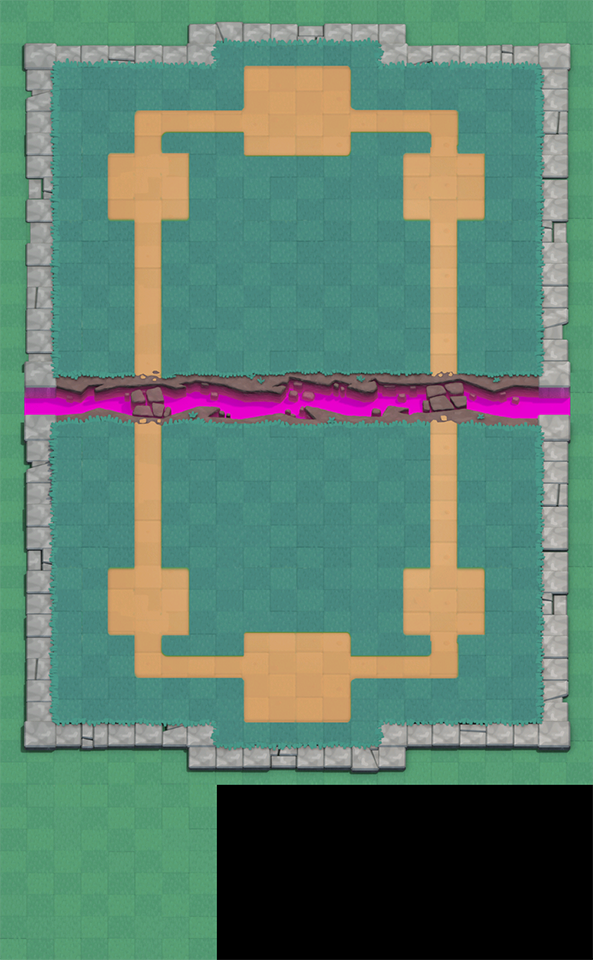
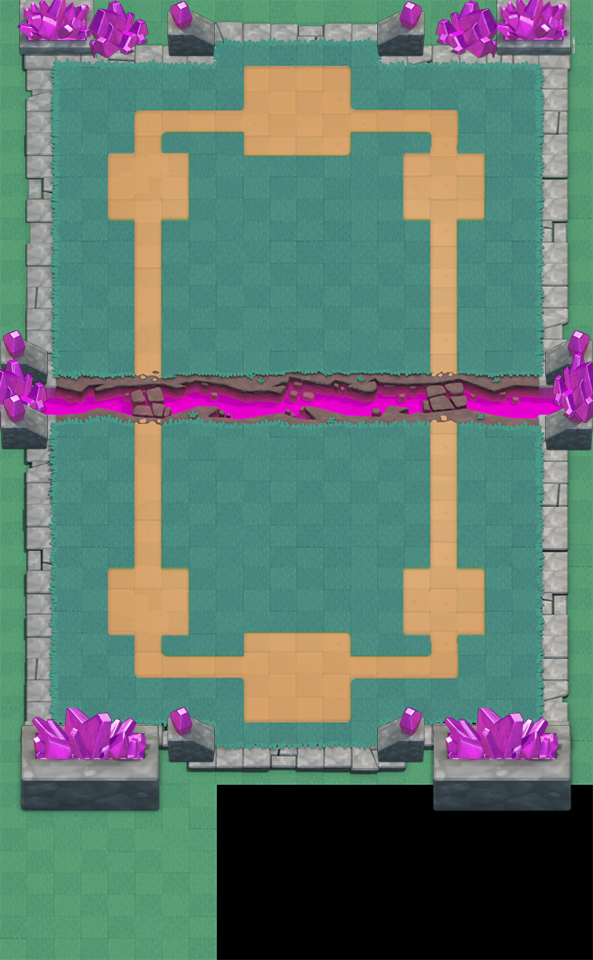
맵에 오브젝트 찍어놓음 화면 크기 변경 리소스 수정

diff --git a/0806_임시프로젝트파일_ 하영/GP_subproject_first/common.h b/0806_임시프로젝트파일_ 하영/GP_subproject_first/common.h
@@ -1,7 +1,7 @@
 #pragma once
 #define SAFE_DELETE(p)	if(p) {delete p; p = NULL;}
-#define WINSIZE_X  660//520
-#define WINSIZE_Y 1003//860
+#define WINSIZE_X  613
+#define WINSIZE_Y 1003
 
 #define REAL_WINSIZE_X 593//640
 #define REAL_WINSIZE_Y 960
